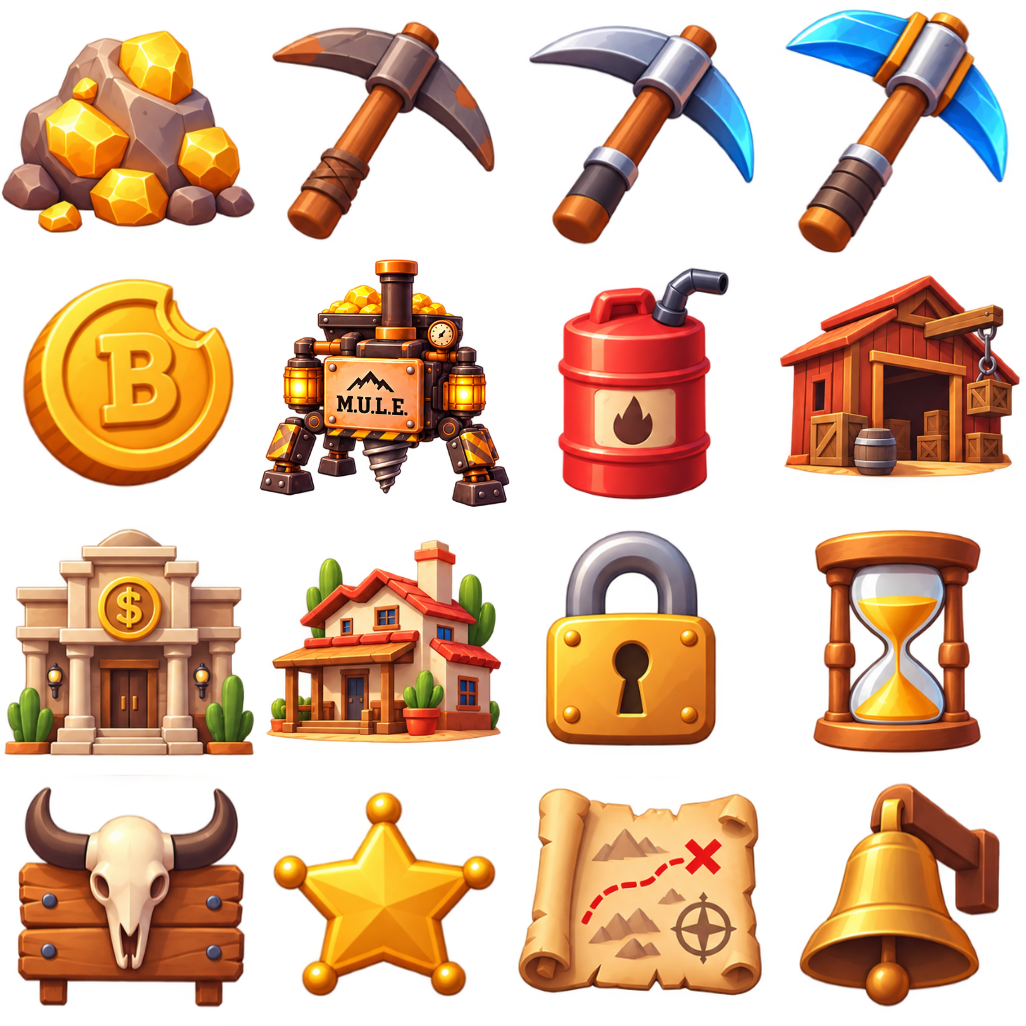
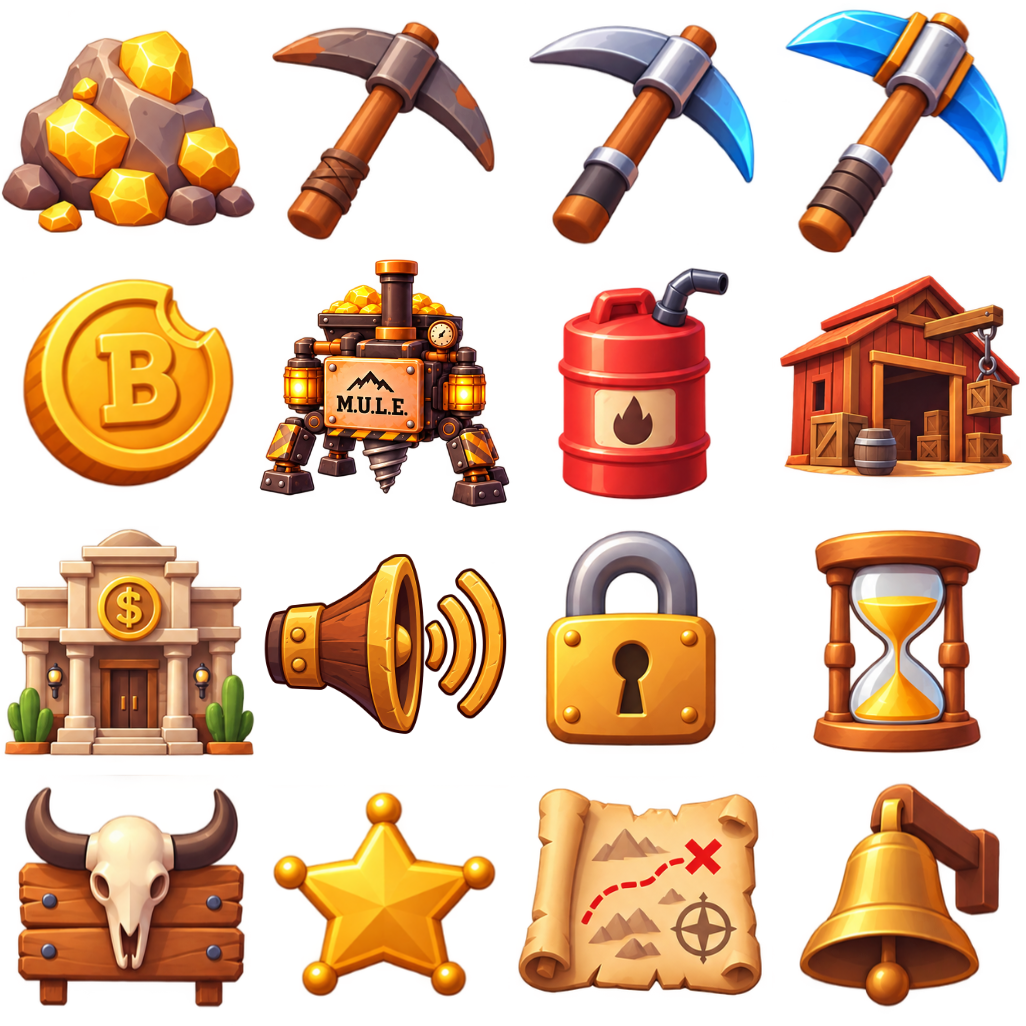
Add sound controls

Changed region(s): [[0.2495, 0.5302, 0.499, 0.7485]]

diff --git a/src/ui.tsx b/src/ui.tsx
@@ -69,6 +69,7 @@ import { quotedRate } from './shared/state/market'
 import { BitmapText } from './ui/bitmap-text'
 import { introScreen } from './ui/intro-screen'
 import { welcomeOverlay } from './ui/welcome-overlay'
+import { getMusicStep, getSfxStep, setMusicStep, setSfxStep, VOLUME_STEPS } from './world/volume'
 import { clearObjectiveHistory, getObjective, getObjectiveClock, getObjectiveHistory, Objective, PastObjective, setupObjective } from './ui/objective'
 
 export function setupUi() {
@@ -2383,6 +2384,7 @@ const inventoryButton = () => (
             inventoryOpen = !inventoryOpen
             if (inventoryOpen) {
                 notificationsOpen = false
+                soundOpen = false
                 mapOpen = false
                 pickSelectorOpen = false
                 muleDropdownOpen = false
@@ -2449,6 +2451,7 @@ const mapButton = () => (
             mapOpen = !mapOpen
             if (mapOpen) {
                 notificationsOpen = false
+                soundOpen = false
                 inventoryOpen = false
                 pickSelectorOpen = false
                 muleDropdownOpen = false
@@ -3188,6 +3191,7 @@ const notificationsButton = () => (
         onMouseDown={() => {
             notificationsOpen = !notificationsOpen
             if (notificationsOpen) {
+                soundOpen = false
                 mapOpen = false
                 inventoryOpen = false
                 pickSelectorOpen = false
@@ -3280,6 +3284,142 @@ const notificationsPanel = () => {
     )
 }
 
+// --- Sound -------------------------------------------------------------------------------
+//
+// Music and SFX volume, each a row of VOLUME_STEPS segments: tap one to set the level there,
+// or step with - and +. The button stacks above Notifications and opens like it.
+
+const SOUND_PANEL_WIDTH = 520
+const SOUND_SEGMENT_WIDTH = 26
+const SOUND_SEGMENT_HEIGHT = 32
+const SOUND_SEGMENT_GAP = 4
+const SOUND_STEP_SIZE = 40
+const SOUND_SEGMENT_OFF = Color4.create(0.23, 0.16, 0.1, 1)
+
+let soundOpen = false
+
+const soundButton = () => (
+    <UiEntity
+        uiTransform={{
+            positionType: 'absolute',
+            position: { top: OBJECTIVE_TOP, right: HUD_MARGIN },
+            // One more button's height above Notifications.
+            margin: { top: -2 * (NOTIFY_BUTTON_SIZE + NOTIFY_BUTTON_GAP) },
+            height: NOTIFY_BUTTON_SIZE,
+            flexDirection: 'row',
+            justifyContent: 'center',
+            alignItems: 'center',
+            padding: { left: 12, right: 12 },
+            borderRadius: 8,
+            borderWidth: 2,
+            borderColor: soundOpen ? BANK_GOLD : BANK_TRIM
+        }}
+        uiBackground={{ color: HUD_BACKGROUND }}
+        onMouseDown={() => {
+            soundOpen = !soundOpen
+            if (soundOpen) {
+                notificationsOpen = false
+                mapOpen = false
+                inventoryOpen = false
+                pickSelectorOpen = false
+                muleDropdownOpen = false
+            }
+        }}
+    >
+        <BitmapText value="SOUND" fontSize={20} color={soundOpen ? BANK_GOLD_LIGHT : BANK_CREAM} />
+    </UiEntity>
+)
+
+const soundStepButton = (label: string, enabled: boolean, onPress: () => void) => (
+    <UiEntity
+        uiTransform={{
+            width: SOUND_STEP_SIZE,
+            height: SOUND_STEP_SIZE,
+            justifyContent: 'center',
+            alignItems: 'center',
+            flexShrink: 0,
+            borderRadius: 8,
+            borderWidth: 2,
+            borderColor: BANK_TRIM
+        }}
+        uiBackground={{ color: enabled ? BANK_GOLD : DISABLED_COLOR }}
+        onMouseDown={() => {
+            if (enabled) onPress()
+        }}
+    >
+        <BitmapText value={label} fontSize={28} color={enabled ? BANK_INK : MUTED_COLOR} />
+    </UiEntity>
+)
+
+const soundRow = (title: string, step: number, setStep: (step: number) => void) => (
+    <UiEntity
+        uiTransform={{
+            width: '100%',
+            flexDirection: 'column',
+            padding: { left: 14, right: 14, top: 8, bottom: 12 },
+            margin: { bottom: 10 },
+            borderRadius: 10,
+            borderWidth: 2,
+            borderColor: BANK_TRIM
+        }}
+        uiBackground={{ color: BANK_WOOD }}
+    >
+        <UiEntity uiTransform={{ width: '100%', flexDirection: 'row', alignItems: 'center', justifyContent: 'space-between', margin: { bottom: 6 } }}>
+            <BitmapText value={title} fontSize={22} color={BANK_GOLD_LIGHT} />
+            <Label value={step === 0 ? 'Off' : `${step * (100 / VOLUME_STEPS)}%`} fontSize={16} color={BANK_CREAM} textAlign="middle-right" textWrap="nowrap" uiTransform={{ height: 22 }} />
+        </UiEntity>
+        <UiEntity uiTransform={{ width: '100%', flexDirection: 'row', alignItems: 'center', justifyContent: 'space-between' }}>
+            {soundStepButton('-', step > 0, () => setStep(step - 1))}
+            <UiEntity uiTransform={{ flexDirection: 'row', alignItems: 'center' }}>
+                {Array.from({ length: VOLUME_STEPS }, (_, i) => (
+                    <UiEntity
+                        key={`${title}-${i}`}
+                        uiTransform={{
+                            width: SOUND_SEGMENT_WIDTH,
+                            height: SOUND_SEGMENT_HEIGHT,
+                            margin: { left: i === 0 ? 0 : SOUND_SEGMENT_GAP },
+                            borderRadius: 4
+                        }}
+                        uiBackground={{ color: i < step ? BANK_GOLD : SOUND_SEGMENT_OFF }}
+                        // Tapping the lit top segment turns it off, so the bar can reach zero.
+                        onMouseDown={() => setStep(i + 1 === step ? i : i + 1)}
+                    />
+                ))}
+            </UiEntity>
+            {soundStepButton('+', step < VOLUME_STEPS, () => setStep(step + 1))}
+        </UiEntity>
+    </UiEntity>
+)
+
+const soundPanel = () => (
+    <UiEntity
+        uiTransform={{
+            width: SOUND_PANEL_WIDTH,
+            flexDirection: 'column',
+            alignItems: 'center',
+            padding: BANK_PANEL_PADDING,
+            borderRadius: PANEL_RADIUS,
+            borderWidth: 3,
+            borderColor: BANK_TRIM
+        }}
+        uiBackground={{ color: BANK_WOOD_DARK }}
+    >
+        <BitmapText value="SOUND" fontSize={40} color={BANK_GOLD_LIGHT} align="center" uiTransform={{ width: '100%', margin: { bottom: 12 } }} />
+        <Button
+            value="X"
+            fontSize={30}
+            color={Color4.White()}
+            uiTransform={{ positionType: 'absolute', position: { top: BANK_PANEL_PADDING, right: BANK_PANEL_PADDING }, width: 48, height: 48, borderRadius: PANEL_RADIUS }}
+            uiBackground={{ color: MAP_CLOSE_COLOR }}
+            onMouseDown={() => {
+                soundOpen = false
+            }}
+        />
+        {soundRow('MUSIC', getMusicStep(), setMusicStep)}
+        {soundRow('SFX', getSfxStep(), setSfxStep)}
+    </UiEntity>
+)
+
 export const uiMenu = () => (
     <UiEntity
         uiTransform={{
@@ -3294,6 +3434,7 @@ export const uiMenu = () => (
             edge. They come first because later siblings draw on top: an open panel covers them. */}
         {objectiveTracker()}
         {notificationsButton()}
+        {soundButton()}
         {DEBUG_RESET_PROGRESS || DEBUG_ADD_COINS || DEBUG_ADD_ORE || DEBUG_SERVER_STATUS ? debugBox() : null}
         {/* main-container: every piece of UI goes in here */}
         <UiEntity
@@ -3319,11 +3460,12 @@ export const uiMenu = () => (
             {mapOpen ? mapPanel() : null}
             {inventoryOpen ? inventoryPanel() : null}
             {notificationsOpen ? notificationsPanel() : null}
-            {!mapOpen && !inventoryOpen && !notificationsOpen && isBankPanelOpen() ? bankPanel() : null}
-            {!mapOpen && !inventoryOpen && !notificationsOpen && isStorePanelOpen() ? storePanel() : null}
-            {!mapOpen && !inventoryOpen && !notificationsOpen && isLandOfficePanelOpen() ? landOfficePanel() : null}
-            {!mapOpen && !inventoryOpen && !notificationsOpen && isMulePanelOpen() && getMuleCount() > 0 ? mulePanel() : null}
-            {!mapOpen && !inventoryOpen && !notificationsOpen && isOwnerCardOpen() ? ownerCardPanel() : null}
+            {soundOpen ? soundPanel() : null}
+            {!mapOpen && !inventoryOpen && !notificationsOpen && !soundOpen && isBankPanelOpen() ? bankPanel() : null}
+            {!mapOpen && !inventoryOpen && !notificationsOpen && !soundOpen && isStorePanelOpen() ? storePanel() : null}
+            {!mapOpen && !inventoryOpen && !notificationsOpen && !soundOpen && isLandOfficePanelOpen() ? landOfficePanel() : null}
+            {!mapOpen && !inventoryOpen && !notificationsOpen && !soundOpen && isMulePanelOpen() && getMuleCount() > 0 ? mulePanel() : null}
+            {!mapOpen && !inventoryOpen && !notificationsOpen && !soundOpen && isOwnerCardOpen() ? ownerCardPanel() : null}
             {pickSelector()}
             {muleDropdown()}
         </UiEntity>

diff --git a/src/world/volume.ts b/src/world/volume.ts
@@ -1,0 +1,46 @@
+// The player's volume sliders: one for the music, one for everything else (one-shots, the
+// mining tap, the mayor's lines).
+//
+// Each is a multiplier from 0 to 1 over the volume the sound already plays at, so 1 is the mix
+// as tuned and the sliders can only turn it down. Kept in steps of 10% so the UI's bar and the
+// value it shows always agree.
+
+export const VOLUME_STEPS = 10
+
+let musicStep = VOLUME_STEPS
+let sfxStep = VOLUME_STEPS
+
+const musicListeners: Array<() => void> = []
+
+export function getMusicStep(): number {
+  return musicStep
+}
+
+export function getSfxStep(): number {
+  return sfxStep
+}
+
+export function musicVolume(): number {
+  return musicStep / VOLUME_STEPS
+}
+
+export function sfxVolume(): number {
+  return sfxStep / VOLUME_STEPS
+}
+
+export function setMusicStep(step: number): void {
+  const next = Math.max(0, Math.min(VOLUME_STEPS, Math.round(step)))
+  if (next === musicStep) return
+  musicStep = next
+  for (const listener of musicListeners) listener()
+}
+
+// One-shots read the level each time they play, so nothing has to be told.
+export function setSfxStep(step: number): void {
+  sfxStep = Math.max(0, Math.min(VOLUME_STEPS, Math.round(step)))
+}
+
+/** Looping tracks register here to follow the music slider while they play. */
+export function onMusicVolumeChange(listener: () => void): void {
+  musicListeners.push(listener)
+}

diff --git a/src/world/sfx.ts b/src/world/sfx.ts
@@ -1,4 +1,5 @@
 import { AudioSource, Entity, engine, Transform } from '@dcl/sdk/ecs'
+import { sfxVolume } from './volume'
 
 // One-shot sounds that aren't tied to any object in the world.
 //
@@ -7,7 +8,8 @@ import { AudioSource, Entity, engine, Transform } from '@dcl/sdk/ecs'
 // a CRDT PUT — the same reason the mining tap uses it: toggling `playing` false->true inside
 // a single tick ships only the final state, and the renderer never sees a change.
 //
-// playSound spreads the existing component, so the volume set at creation survives.
+// playSound spreads the existing component, so the volume set just before it survives; it is
+// set on every play so the SFX slider applies to the next sound.
 
 const entitiesByClip = new Map<string, Entity>()
 
@@ -21,11 +23,11 @@ export function playSfx(clip: string, volume: number = 1): void {
       audioClipUrl: clip,
       playing: false,
       loop: false,
-      volume,
       global: true
     })
     entitiesByClip.set(clip, entity)
   }
 
+  AudioSource.getMutable(entity).volume = volume * sfxVolume()
   AudioSource.playSound(entity, clip, true)
 }

diff --git a/src/mayor/mayor.ts b/src/mayor/mayor.ts
@@ -6,6 +6,7 @@ import { getHitsPerRock, sendClaimPick } from '../net/economy-link'
 import { placeTutorialRock } from '../mining/rocks'
 import { TUTORIAL_ROCK_SEQS } from '../shared/net/rock-sync'
 import { playSubtitles } from '../world/subtitles'
+import { sfxVolume } from '../world/volume'
 import { getIntroChoice, isWelcomePlaying } from '../world/intro-state'
 
 // The town mayor, standing at spawn. Walking up to him with no pick gets you one — free, and
@@ -93,7 +94,7 @@ function showPracticeRock(dt: number): void {
   if (line !== null) engine.removeEntity(line)
   line = engine.addEntity()
   Transform.create(line, { position: Vector3.add(at.position, Vector3.create(0, 1.6, 0)) })
-  AudioSource.create(line, { audioClipUrl: MINING_LINE, playing: true, loop: false, volume: 1, global: true })
+  AudioSource.create(line, { audioClipUrl: MINING_LINE, playing: true, loop: false, volume: sfxVolume(), global: true })
   playSubtitles(MINING_LINE_SUBTITLES, MINING_LINE_SECONDS)
   turnTimer = MINING_LINE_SUBTITLES[1].at
 }

diff --git a/src/world/music.ts b/src/world/music.ts
@@ -1,4 +1,5 @@
 import { AudioSource, Entity, engine, Transform } from '@dcl/sdk/ecs'
+import { musicVolume, onMusicVolumeChange } from './volume'
 
 // Background music: one looping, non-positional track for the whole town.
 //
@@ -25,7 +26,7 @@ export function setupMusic(): void {
     audioClipUrl: INTRO_CLIP,
     playing: true,
     loop: true,
-    volume: INTRO_VOLUME,
+    volume: INTRO_VOLUME * musicVolume(),
     global: true
   })
 
@@ -36,8 +37,13 @@ export function setupMusic(): void {
     audioClipUrl: MUSIC_CLIP,
     playing: false,
     loop: true,
-    volume: MUSIC_VOLUME,
+    volume: MUSIC_VOLUME * musicVolume(),
     global: true
+  })
+
+  onMusicVolumeChange(() => {
+    if (introEntity !== undefined) AudioSource.getMutable(introEntity).volume = INTRO_VOLUME * musicVolume()
+    if (musicEntity !== undefined) AudioSource.getMutable(musicEntity).volume = MUSIC_VOLUME * musicVolume()
   })
 }
 

diff --git a/src/world/welcome-cinematic.ts b/src/world/welcome-cinematic.ts
@@ -5,6 +5,7 @@ import { movePlayerTo } from '~system/RestrictedActions'
 
 import { MAYOR_ENTITY_NAME } from '../mayor/mayor'
 import { setWelcomePlaying } from './intro-state'
+import { sfxVolume } from './volume'
 
 // The welcome shot, played once when the title card has faded: a camera just behind the
 // player looks over their shoulder at the town mayor, black bars come in, and after a beat
@@ -106,7 +107,7 @@ function welcomeSystem(dt: number): void {
   if (before < AUDIO_DELAY_SECONDS && elapsed >= AUDIO_DELAY_SECONDS) {
     audio = engine.addEntity()
     Transform.create(audio, {})
-    AudioSource.create(audio, { audioClipUrl: WELCOME_AUDIO, playing: true, loop: false, volume: 1, global: true })
+    AudioSource.create(audio, { audioClipUrl: WELCOME_AUDIO, playing: true, loop: false, volume: sfxVolume(), global: true })
   }
 
   if (elapsed >= TOTAL_SECONDS) finish()

diff --git a/src/mining/pick-feel.ts b/src/mining/pick-feel.ts
@@ -11,6 +11,7 @@ import { Color4, Vector3 } from '@dcl/sdk/math'
 
 import { activePick } from '../shared/economy/catalogue'
 import { getEquipped, getOwned } from '../shared/state/inventory'
+import { sfxVolume } from '../world/volume'
 
 // How each pick FEELS, on top of how fast it digs (that is the catalogue's hitsPerRock). Going
 // Stranger → Miner → Master should be felt in the hands, not only read in a number: every tier
@@ -91,7 +92,7 @@ export function playHitFeedback(spot: Vector3): void {
 
   // playSound keeps the rest of the component, so the tier's volume and pitch go in first.
   const audio = AudioSource.getMutable(soundEntity())
-  audio.volume = feel.volume
+  audio.volume = feel.volume * sfxVolume()
   audio.pitch = feel.pitch
   AudioSource.playSound(soundEntity(), HIT_SOUND, true)
 

diff --git a/src/player/nametags.ts b/src/player/nametags.ts
@@ -12,7 +12,7 @@ type TierStyle = { title: string; background: Color3; border: Color3 }
 // White, orange, yellow, green. The dark label stays the same on all four so it keeps its
 // contrast on a phone screen.
 const TIERS: Record<number, TierStyle> = {
-  1: { title: 'Prospector', background: Color3.White(), border: Color3.create(0.45, 0.45, 0.45) },
+  1: { title: 'Drifter', background: Color3.White(), border: Color3.create(0.45, 0.45, 0.45) },
   2: { title: 'Cabin Owner', background: Color3.create(1, 0.6, 0.15), border: Color3.create(0.55, 0.28, 0.05) },
   3: { title: 'Homeowner', background: Color3.Yellow(), border: Color3.create(0.45, 0.3, 0.08) },
   4: { title: 'Ranch Owner', background: Color3.create(0.4, 0.85, 0.35), border: Color3.create(0.15, 0.4, 0.12) }

diff --git a/src/mining/rocks.ts b/src/mining/rocks.ts
@@ -477,7 +477,7 @@ function update(dt: number): void {
       sendRockDone(rock.seq)
       if (rock === tutorial) removeTutorialRock()
       playSfx(ROCK_DONE_SOUND, 0.8)
-      playSfx(ROCK_BREAK_SOUND)
+      playSfx(ROCK_BREAK_SOUND, 0.5)
       playRockBreak(rock.spot)
       // Shown immediately rather than when the wallet comes back: the swing earned it, and a
       // popup a round trip late would not read as this rock's payout. The HUD is still the one
